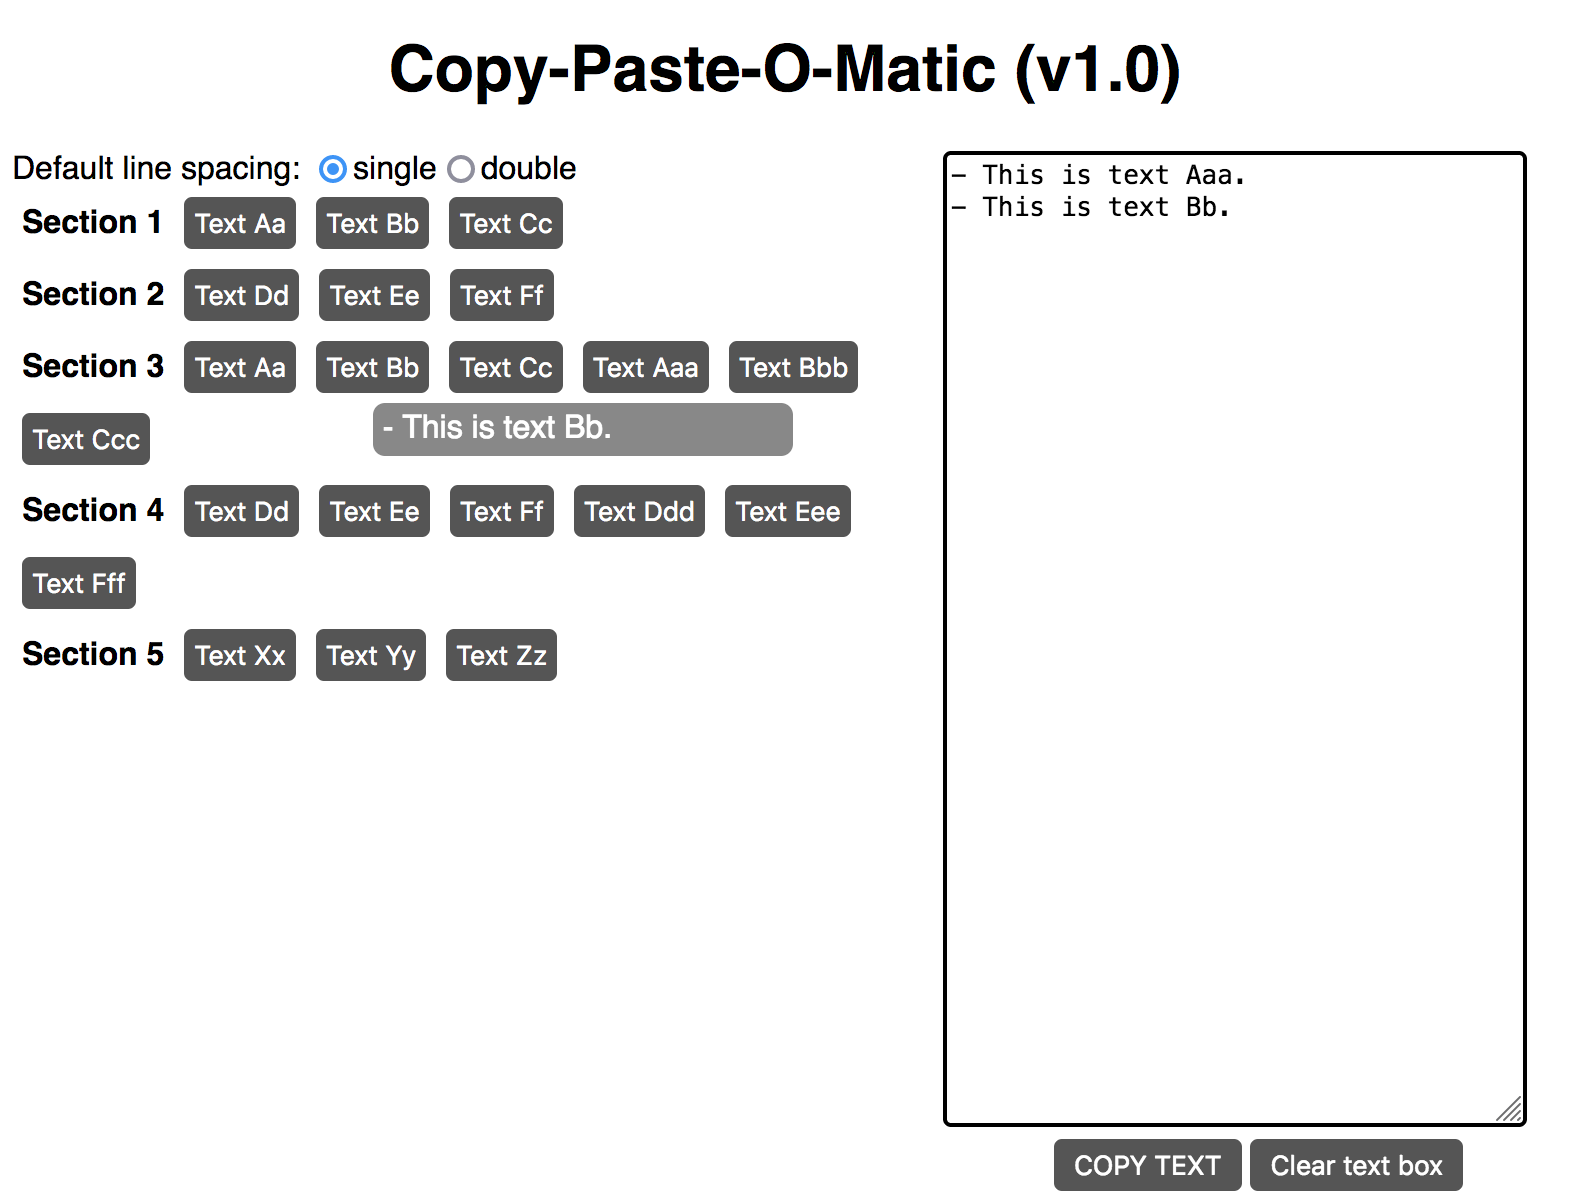
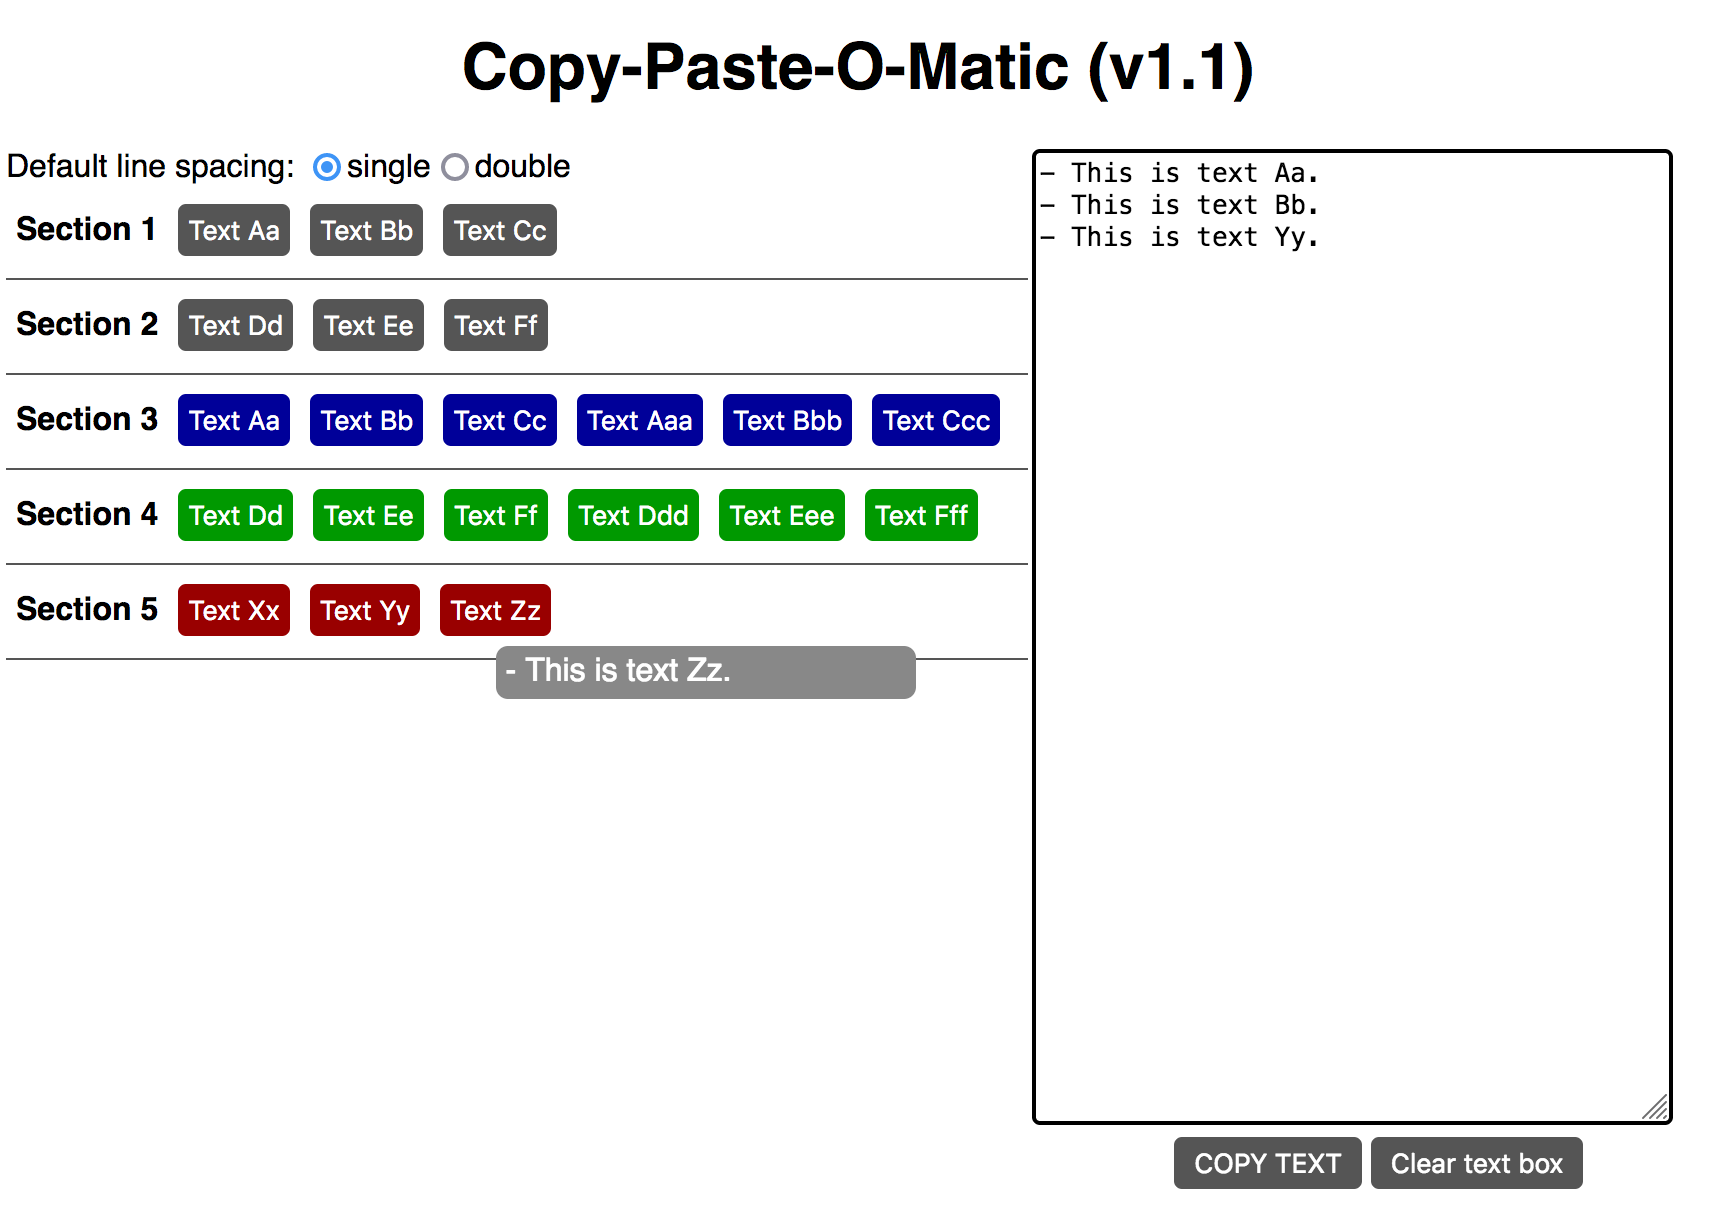
v1.1 release
Added: custom colours per section, lines between sections

Changed region(s): [[0.0, 0.1229, 0.9975, 1.0], [0.2494, 0.0307, 0.7481, 0.0922]]

diff --git a/CopyPasteOMatic-AllInOne.html b/CopyPasteOMatic-AllInOne.html
@@ -79,6 +79,7 @@ Copyright (C) 2026  Artur A.
 		
 		div.sectionTitle {
 			font-weight: bold;
+			padding: 10px 0px;
 		}
 		
 		div.outputArea {
@@ -157,7 +158,6 @@ Copyright (C) 2026  Artur A.
 
 	<script>
 	
-	// ######
 	var brandColor = "#555555"; // Default is otherwise: #555555
 	var brandColorLight = "#888888"; // Default is otherwise: #888888
 	var brandContrastColor = "white"; // Default is otherwise: white
@@ -171,11 +171,15 @@ Copyright (C) 2026  Artur A.
 		2) Last button in each section doesn't have comma after square bracket
 		3) Last section doesn't have comma after square bracket
 		4) To insert a line break (new line), use \n
+		5) Don't mix the same quotation marks - use ' inside the text
+			or use escape character \' or \"
+		6) You can set a custom colour for the buttons in a particular section
+			in the element after the section title
 	*/
 
 	// Section 1
 	[
-		["Section 1"],
+		["Section 1",""],
 		["Text Aa","- This is text Aa."],
 		["Text Bb","- This is text Bb."],
 		["Text Cc","- This is text Cc."]
@@ -183,7 +187,7 @@ Copyright (C) 2026  Artur A.
 	
 	// Section 2
 	[
-		["Section 2"],
+		["Section 2",""],
 		["Text Dd","- This is text Dd."],
 		["Text Ee","- This is text Ee."],
 		["Text Ff","- This is text Ff. This is also text Ff. This is text also Ff." + 
@@ -193,7 +197,7 @@ Copyright (C) 2026  Artur A.
 	
 	// Section 3
 	[
-		["Section 3"],
+		["Section 3","#000099"],
 		["Text Aa","- This is text Aa."],
 		["Text Bb","- This is text Bb."],
 		["Text Cc","- This is text Cc."],
@@ -204,7 +208,7 @@ Copyright (C) 2026  Artur A.
 	
 	// Section 4
 	[
-		["Section 4"],
+		["Section 4","#009900"],
 		["Text Dd","- This is text Dd."],
 		["Text Ee","- This is text Ee."],
 		["Text Ff","- This is text Ff."],
@@ -215,7 +219,7 @@ Copyright (C) 2026  Artur A.
 	
 	// Section 5
 	[
-		["Section 5"],
+		["Section 5","#990000"],
 		["Text Xx","- This is text Xx."],
 		["Text Yy","- This is text Yy."],
 		["Text Zz","- This is text Zz."]
@@ -224,7 +228,7 @@ Copyright (C) 2026  Artur A.
 	/* To create a new section, copy and paste this up to the asterisk and slash:
 	
 	[
-		["Section Title"],
+		["Section Title","Section custom button colour (optional)"],
 		["Button text Xx","- This is the text snippet Xx."],
 		["Button text Yy","- This is the text snippet Yy."],
 		["Button text Zz","- This is the text snippet Zz."]
@@ -234,7 +238,7 @@ Copyright (C) 2026  Artur A.
 
 ]; // End of configInfo array
 
-	   console.log("Config has been loaded.");
+	  console.log("Confighas been loaded.");
 		 
 	  function generateInputForm() {
 	  
@@ -242,6 +246,7 @@ Copyright (C) 2026  Artur A.
 		
 		console.log("Config is: " + configInfo);
 		console.log("Brand colour is: " + brandColor);
+		console.log("Brand lighter colour is: " + brandColorLight);
 		console.log("Brand contrast colour is: " + brandContrastColor);
 		
 		// Create line spacing radio selector
@@ -280,10 +285,11 @@ Copyright (C) 2026  Artur A.
 	  	
 	  		// Creates a div to contain the 'section'
 	  		const sectn = document.createElement("div");
+	  		sectn.style.borderBottom = "1px solid #555555"; //Border after each section
 	  		
 	  		// Creates the section title
 	  		const sectnTitle = document.createElement("div");
-	  		sectnTitle.innerHTML = configInfo[i][0]; // 1st order element 1 is section name
+	  		sectnTitle.innerHTML = configInfo[i][0][0]; // Element is section name
 	  		sectnTitle.classList.add("sectionTitle");
 	  		sectnTitle.style.margin = "5px";
 	  		sectnTitle.style.display = "inline-block";
@@ -312,8 +318,17 @@ Copyright (C) 2026  Artur A.
 				btn.onclick = function() {
    					addText(configInfo[i][j][1]); //3rd order element 2 is text to copy
 				};
+				
 				// Styles the button in line with the proscribed colours
-				btn.style.backgroundColor = brandColor;
+				// Check if section has custom colour
+				if (configInfo[i][0][1] != "") {
+					// Use custom section colour
+					btn.style.backgroundColor = configInfo[i][0][1];
+				} else {
+					// Use brand colour
+					btn.style.backgroundColor = brandColor;
+				}
+				
 				btn.style.color = brandContrastColor;
 				btn.style.border = "none";
 				btn.style.padding = "5px";
@@ -398,6 +413,9 @@ Copyright (C) 2026  Artur A.
 	  
 	  	// Save a copy of the current text in the output area
 	  	lastText = document.getElementById("outputBox").value;
+	  	
+	  	// Clear any previous Undo messages
+	  	document.getElementById("undoPromptArea").innerHTML = "";
 	  
 	  	// Create 'Undo?' link
 	  	const undoLink = document.createElement("a");
@@ -424,7 +442,7 @@ Copyright (C) 2026  Artur A.
   </head>
 
   <body onload="generateInputForm()">
-    <h1>Copy-Paste-O-Matic (v1.0b - All-in-One)</h2>
+    <h1>Copy-Paste-O-Matic (v1.1b) - All-in-One</h1>
    
     <div class="inputArea">
     

diff --git a/CopyPasteOMatic.html b/CopyPasteOMatic.html
@@ -79,6 +79,7 @@ Copyright (C) 2026  Artur A.
 		
 		div.sectionTitle {
 			font-weight: bold;
+			padding: 10px 0px;
 		}
 		
 		div.outputArea {
@@ -192,6 +193,7 @@ Copyright (C) 2026  Artur A.
 		
 		console.log("Config is: " + configInfo);
 		console.log("Brand colour is: " + brandColor);
+		console.log("Brand lighter colour is: " + brandColorLight);
 		console.log("Brand contrast colour is: " + brandContrastColor);
 		
 		// Create line spacing radio selector
@@ -230,10 +232,11 @@ Copyright (C) 2026  Artur A.
 	  	
 	  		// Creates a div to contain the 'section'
 	  		const sectn = document.createElement("div");
+	  		sectn.style.borderBottom = "1px solid #555555"; //Border after each section
 	  		
 	  		// Creates the section title
 	  		const sectnTitle = document.createElement("div");
-	  		sectnTitle.innerHTML = configInfo[i][0]; // 1st order element 1 is section name
+	  		sectnTitle.innerHTML = configInfo[i][0][0]; // Element is section name
 	  		sectnTitle.classList.add("sectionTitle");
 	  		sectnTitle.style.margin = "5px";
 	  		sectnTitle.style.display = "inline-block";
@@ -262,8 +265,17 @@ Copyright (C) 2026  Artur A.
 				btn.onclick = function() {
    					addText(configInfo[i][j][1]); //3rd order element 2 is text to copy
 				};
+				
 				// Styles the button in line with the proscribed colours
-				btn.style.backgroundColor = brandColor;
+				// Check if section has custom colour
+				if (configInfo[i][0][1] != "") {
+					// Use custom section colour
+					btn.style.backgroundColor = configInfo[i][0][1];
+				} else {
+					// Use brand colour
+					btn.style.backgroundColor = brandColor;
+				}
+				
 				btn.style.color = brandContrastColor;
 				btn.style.border = "none";
 				btn.style.padding = "5px";
@@ -348,6 +360,9 @@ Copyright (C) 2026  Artur A.
 	  
 	  	// Save a copy of the current text in the output area
 	  	lastText = document.getElementById("outputBox").value;
+	  	
+	  	// Clear any previous Undo messages
+	  	document.getElementById("undoPromptArea").innerHTML = "";
 	  
 	  	// Create 'Undo?' link
 	  	const undoLink = document.createElement("a");
@@ -374,7 +389,9 @@ Copyright (C) 2026  Artur A.
   </head>
 
   <body>
-    <h1>Copy-Paste-O-Matic (v1.0)</h2>
+  <!--Use tag below in All-in-One version-->
+  <!--<body onload="generateInputForm()">-->
+    <h1>Copy-Paste-O-Matic (v1.1)</h1>
    
     <div class="inputArea">
     

diff --git a/config.js b/config.js
@@ -11,11 +11,15 @@ var configInfo = [
 		2) Last button in each section doesn't have comma after square bracket
 		3) Last section doesn't have comma after square bracket
 		4) To insert a line break (new line), use \n
+		5) Don't mix the same quotation marks - use ' inside the text
+			or use escape character \' or \"
+		6) You can set a custom colour for the buttons in a particular section
+			in the element after the section title
 	*/
 
 	// Section 1
 	[
-		["Section 1"],
+		["Section 1",""],
 		["Text Aa","- This is text Aa."],
 		["Text Bb","- This is text Bb."],
 		["Text Cc","- This is text Cc."]
@@ -23,7 +27,7 @@ var configInfo = [
 	
 	// Section 2
 	[
-		["Section 2"],
+		["Section 2",""],
 		["Text Dd","- This is text Dd."],
 		["Text Ee","- This is text Ee."],
 		["Text Ff","- This is text Ff. This is also text Ff. This is text also Ff." + 
@@ -33,7 +37,7 @@ var configInfo = [
 	
 	// Section 3
 	[
-		["Section 3"],
+		["Section 3","#000099"],
 		["Text Aa","- This is text Aa."],
 		["Text Bb","- This is text Bb."],
 		["Text Cc","- This is text Cc."],
@@ -44,7 +48,7 @@ var configInfo = [
 	
 	// Section 4
 	[
-		["Section 4"],
+		["Section 4","#009900"],
 		["Text Dd","- This is text Dd."],
 		["Text Ee","- This is text Ee."],
 		["Text Ff","- This is text Ff."],
@@ -55,7 +59,7 @@ var configInfo = [
 	
 	// Section 5
 	[
-		["Section 5"],
+		["Section 5","#990000"],
 		["Text Xx","- This is text Xx."],
 		["Text Yy","- This is text Yy."],
 		["Text Zz","- This is text Zz."]
@@ -64,7 +68,7 @@ var configInfo = [
 	/* To create a new section, copy and paste this up to the asterisk and slash:
 	
 	[
-		["Section Title"],
+		["Section Title","Section custom button colour (optional)"],
 		["Button text Xx","- This is the text snippet Xx."],
 		["Button text Yy","- This is the text snippet Yy."],
 		["Button text Zz","- This is the text snippet Zz."]

diff --git a/README.md b/README.md
@@ -23,6 +23,8 @@ The user can select the option of a single or double carriage return (new line) 
 
 The 'Clear text box' removes any text in the text area. There is an 'Undo' option to restore the most recently cleared text.
 
+Custom button colors can be set in the config.js file, with the option for a custom colour for per section.
+
 ## Features yet to be implemented<a name="features"></a>
 
 * Supporting multiple workflows, each with their own sections and buttons (will have dropdown selector)
